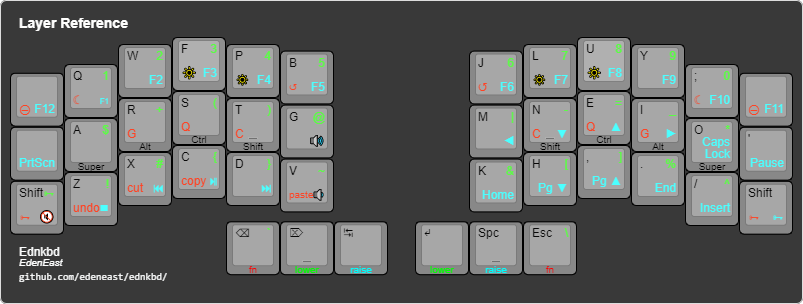
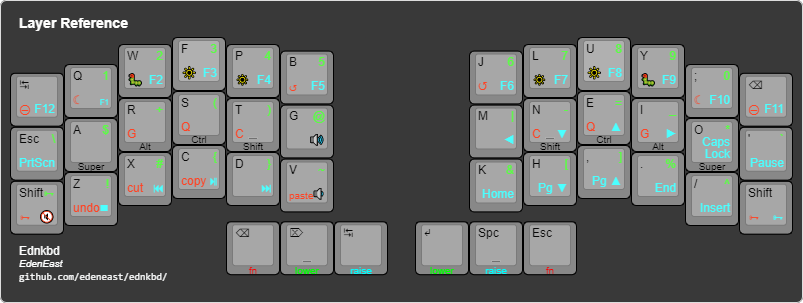
feat: Move lower symbols from thumbs to outside

diff --git a/user/wrapper.h b/user/wrapper.h
@@ -52,11 +52,11 @@
 
 
 #define ___________________LOWER_L1____________________ _______,KC_1   , KC_2  , KC_3  , KC_4  , KC_5
-#define ___________________LOWER_L2____________________ _______,KC_DLR ,KC_PLUS,KC_LPRN,KC_RPRN,KC_AT
+#define ___________________LOWER_L2____________________ KC_BSLS,KC_DLR ,KC_PLUS,KC_LPRN,KC_RPRN,KC_AT
 #define ___________________LOWER_L3____________________ TG_LOWR,KC_EXLM,KC_HASH,KC_LCBR,KC_RCBR,KC_TILD
 
 #define ___________________LOWER_R1____________________ KC_6   , KC_7  , KC_8  , KC_9  , KC_0  ,_______
-#define ___________________LOWER_R2____________________ KC_PIPE,KC_MINS,KC_EQL ,KC_UNDS,KC_ASTR,_______
+#define ___________________LOWER_R2____________________ KC_PIPE,KC_MINS,KC_EQL ,KC_UNDS,KC_ASTR,KC_GRV
 #define ___________________LOWER_R3____________________ KC_AMPR,KC_LBRC,KC_RBRC,KC_PERC,KC_CIRC,_______
 
 
@@ -97,13 +97,13 @@
 #define TB_RARR KC_ESC
 
 
-#define TB_LOLL KC_GRV
+#define TB_LOLL KC_DEL
 #define TB_LOLC KC_BSPC
 #define TB_LOLR KC_TAB
 
 #define TB_LORL KC_ENT
 #define TB_LORC KC_SPC
-#define TB_LORR KC_BSLS
+#define TB_LORR KC_ESC
 
 
 #define TB_FNLL KC_DEL

diff --git a/readme.md b/readme.md
@@ -1,5 +1,7 @@
 # Eden's Keyboard Firmware
 
+![reference](./resources/ednkbd.png)
+
 This repository contains my personal keymap for my [Dactyl Manuform][dactman-repo] and [Corne] keyboard.
 
 This keymap uses [Colemak-DH] for its alpha base with the ability to swap to Qwerty when needed.
